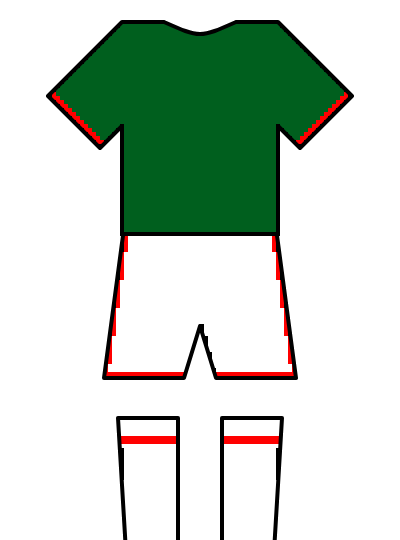
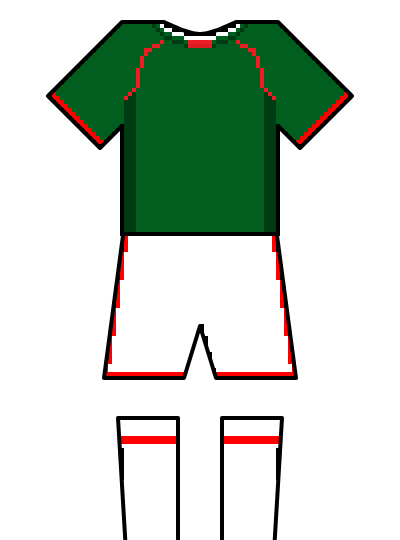
Redraw kits with twelve more pattern pictures
Claude-Session: https://claude.ai/code/session_019gbuJGYaZ4pQBD5fAWM6oT

Changed region(s): [[0.3, 0.0889, 0.39, 0.4444], [0.63, 0.0889, 0.69, 0.4444], [0.39, 0.0296, 0.63, 0.0889]]

diff --git a/public/data/kits.js b/public/data/kits.js
@@ -1119,7 +1119,7 @@ window.HALFTIME_KITS = [
     matches: ["1976-european-cup-final"],
     coloursSource: "Wikipedia, \"1976 European Cup final\" (revision 1341421817), CC BY-SA 4.0; colour read from the Commons picture \"Kit body asse_saint_etienne_76.png\" (CC BY-SA 3.0)",
     coloursUrl: "https://en.wikipedia.org/w/index.php?title=1976_European_Cup_final&oldid=1341421817",
-    illustration: { file: "saint-etienne-1976.png", credit: "Drawn after the kit shown in Wikipedia’s \"1976 European Cup final\" article. Pattern pictures from Wikimedia Commons: Kit left arm asse saint etienne 76.png (CC BY-SA 3.0, Guiggz); Kit body asse saint etienne 76.png (CC BY-SA 3.0, Guiggz); Kit shorts asse saint etienne 76.png (CC BY-SA 3.0, Guiggz). Outline: Wikimedia Commons kit template drawings." }
+    illustration: { file: "saint-etienne-1976.png", credit: "Drawn after the kit shown in Wikipedia’s \"1976 European Cup final\" article. Pattern pictures from Wikimedia Commons: Kit left arm asse saint etienne 76.png (CC BY-SA 3.0, Guiggz); Kit body asse saint etienne 76.png (CC BY-SA 3.0, Guiggz); Kit right arm asse saint etienne 76.png (CC BY-SA 3.0, Guiggz); Kit shorts asse saint etienne 76.png (CC BY-SA 3.0, Guiggz). Outline: Wikimedia Commons kit template drawings." }
   },
   {
     id: "west-germany-1976",
@@ -2019,7 +2019,7 @@ window.HALFTIME_KITS = [
     matches: ["1994-champions-league-final"],
     coloursSource: "Wikipedia, \"1994 UEFA Champions League final\" (revision 1375960154), CC BY-SA 4.0",
     coloursUrl: "https://en.wikipedia.org/w/index.php?title=1994_UEFA_Champions_League_final&oldid=1375960154",
-    illustration: { file: "barcelona-1994.png", credit: "Drawn after the kit shown in Wikipedia’s \"1994 UEFA Champions League final\" article. Pattern pictures from Wikimedia Commons: Kit body fcbarcelona9394home.png (CC BY-SA 3.0, Zotteteen1); Kit right arm fcbarcelona9394home.png (CC BY-SA 3.0, Zotteteen1). Outline: Wikimedia Commons kit template drawings." }
+    illustration: { file: "barcelona-1994.png", credit: "Drawn after the kit shown in Wikipedia’s \"1994 UEFA Champions League final\" article. Pattern pictures from Wikimedia Commons: Kit left arm fcbarcelona9394home.png (CC BY-SA 3.0, Zotteteen1); Kit body fcbarcelona9394home.png (CC BY-SA 3.0, Zotteteen1); Kit right arm fcbarcelona9394home.png (CC BY-SA 3.0, Zotteteen1); Kit shorts fcbarcelona9394home.png (Public domain, Chandler); Kit socks fcbarcelona9394home.png (CC BY-SA 3.0, Chandler). Outline: Wikimedia Commons kit template drawings." }
   },
   {
     id: "brazil-1994",
@@ -2124,7 +2124,7 @@ window.HALFTIME_KITS = [
     matches: ["1995-copa-america-final"],
     coloursSource: "Wikipedia, \"1995 Copa América final\" (revision 1349684504), CC BY-SA 4.0",
     coloursUrl: "https://en.wikipedia.org/w/index.php?title=1995_Copa_Am%C3%A9rica_final&oldid=1349684504",
-    illustration: { file: "uruguay-1995.png", credit: "Drawn after the kit shown in Wikipedia’s \"1995 Copa América final\" article. Pattern pictures from Wikimedia Commons: Kit left arm uruguay1995-96h.png (CC BY-SA 4.0, Manya_1996); Kit body uruguay1995-96h.png (CC BY-SA 4.0, Manya_1996); Kit right arm uruguay1995-96h.png (CC BY-SA 4.0, Manya_1996); Kit socks whitelinel.png (CC BY-SA 4.0, Eduzs). Outline: Wikimedia Commons kit template drawings." }
+    illustration: { file: "uruguay-1995.png", credit: "Drawn after the kit shown in Wikipedia’s \"1995 Copa América final\" article. Pattern pictures from Wikimedia Commons: Kit left arm uruguay1995-96h.png (CC BY-SA 4.0, Manya_1996); Kit body uruguay1995-96h.png (CC BY-SA 4.0, Manya_1996); Kit right arm uruguay1995-96h.png (CC BY-SA 4.0, Manya_1996); Kit shorts uru95h.png (CC BY-SA 4.0, Bruno-ban); Kit socks whitelinel.png (CC BY-SA 4.0, Eduzs). Outline: Wikimedia Commons kit template drawings." }
   },
   {
     id: "ajax-1996",
@@ -2379,7 +2379,7 @@ window.HALFTIME_KITS = [
     matches: ["2000-euro-final"],
     coloursSource: "Wikipedia, \"UEFA Euro 2000 final\" (revision 1377819903), CC BY-SA 4.0",
     coloursUrl: "https://en.wikipedia.org/w/index.php?title=UEFA_Euro_2000_final&oldid=1377819903",
-    illustration: { file: "france-2000.png", credit: "Drawn after the kit shown in Wikipedia’s \"UEFA Euro 2000 final\" article. Pattern pictures from Wikimedia Commons: Kit body france2000h.png (CC BY-SA 3.0, Zotteteen1); Kit right arm france2000h.png (CC BY-SA 3.0, Zotteteen1); Kit shorts france2000h.png (CC BY-SA 3.0, Zotteteen1). Outline: Wikimedia Commons kit template drawings." }
+    illustration: { file: "france-2000.png", credit: "Drawn after the kit shown in Wikipedia’s \"UEFA Euro 2000 final\" article. Pattern pictures from Wikimedia Commons: Kit left arm france2000h.png (CC BY-SA 3.0, Zotteteen1); Kit body france2000h.png (CC BY-SA 3.0, Zotteteen1); Kit right arm france2000h.png (CC BY-SA 3.0, Zotteteen1); Kit shorts france2000h.png (CC BY-SA 3.0, Zotteteen1); Kit socks france2000h.png (CC BY-SA 3.0, Zotteteen1). Outline: Wikimedia Commons kit template drawings." }
   },
   {
     id: "italy-2000",
@@ -2454,7 +2454,7 @@ window.HALFTIME_KITS = [
     matches: ["2001-copa-america-final"],
     coloursSource: "Wikipedia, \"2001 Copa América final\" (revision 1378647545), CC BY-SA 4.0",
     coloursUrl: "https://en.wikipedia.org/w/index.php?title=2001_Copa_Am%C3%A9rica_final&oldid=1378647545",
-    illustration: { file: "colombia-2001.png", credit: "Drawn after the kit shown in Wikipedia’s \"2001 Copa América final\" article. Pattern pictures from Wikimedia Commons: Kit body colombia 01 03 H.png (CC BY-SA 4.0, Juliancames); Kit shorts colombia 01 03 H.png (CC BY-SA 4.0, Juliancames). Outline: Wikimedia Commons kit template drawings." }
+    illustration: { file: "colombia-2001.png", credit: "Drawn after the kit shown in Wikipedia’s \"2001 Copa América final\" article. Pattern pictures from Wikimedia Commons: Kit left arm colombia 01 03 H.png (CC BY-SA 4.0, Juliancames); Kit body colombia 01 03 H.png (CC BY-SA 4.0, Juliancames); Kit right arm colombia 01 03 H.png (CC BY-SA 4.0, Juliancames); Kit shorts colombia 01 03 H.png (CC BY-SA 4.0, Juliancames); Kit socks colombia 01 03 H.png (CC BY-SA 4.0, Juliancames). Outline: Wikimedia Commons kit template drawings." }
   },
   {
     id: "mexico-2001",
@@ -2469,7 +2469,7 @@ window.HALFTIME_KITS = [
     matches: ["2001-copa-america-final"],
     coloursSource: "Wikipedia, \"2001 Copa América final\" (revision 1378647545), CC BY-SA 4.0",
     coloursUrl: "https://en.wikipedia.org/w/index.php?title=2001_Copa_Am%C3%A9rica_final&oldid=1378647545",
-    illustration: { file: "mexico-2001.png", credit: "Drawn after the kit shown in Wikipedia’s \"2001 Copa América final\" article. Pattern pictures from Wikimedia Commons: Kit left arm thinredborder.png (Public domain, VEO15); Kit right arm thinredborder.png (Public domain, VEO15); Kit shorts uru02a.png (CC BY-SA 4.0, Bruno-ban); Kit socks redstripe.png (Public domain, Luctor_IV). Outline: Wikimedia Commons kit template drawings." }
+    illustration: { file: "mexico-2001.png", credit: "Drawn after the kit shown in Wikipedia’s \"2001 Copa América final\" article. Pattern pictures from Wikimedia Commons: Kit left arm thinredborder.png (Public domain, VEO15); Kit body mex01h.png (CC BY-SA 4.0, KoreanDragon); Kit right arm thinredborder.png (Public domain, VEO15); Kit shorts uru02a.png (CC BY-SA 4.0, Bruno-ban); Kit socks redstripe.png (Public domain, Luctor_IV). Outline: Wikimedia Commons kit template drawings." }
   },
   {
     id: "valencia-2001",
@@ -2589,7 +2589,7 @@ window.HALFTIME_KITS = [
     matches: ["2004-copa-america-final"],
     coloursSource: "Wikipedia, \"2004 Copa América final\" (revision 1367555651), CC BY-SA 4.0",
     coloursUrl: "https://en.wikipedia.org/w/index.php?title=2004_Copa_Am%C3%A9rica_final&oldid=1367555651",
-    illustration: { file: "argentina-2004.png", credit: "Drawn after the kit shown in Wikipedia’s \"2004 Copa América final\" article. Pattern pictures from Wikimedia Commons: Kit left arm arg04h.png (CC BY-SA 3.0, Salygina); Kit body arg04h.png (CC BY-SA 3.0, Salygina); Kit shorts arg04h.png (CC BY-SA 3.0, Salygina); Kit socks arg04h.png (CC BY-SA 4.0, Zotteteen1). Outline: Wikimedia Commons kit template drawings." }
+    illustration: { file: "argentina-2004.png", credit: "Drawn after the kit shown in Wikipedia’s \"2004 Copa América final\" article. Pattern pictures from Wikimedia Commons: Kit left arm arg04h.png (CC BY-SA 3.0, Salygina); Kit body arg04h.png (CC BY-SA 3.0, Salygina); Kit right arm arg04h.png (CC BY-SA 3.0, Salygina); Kit shorts arg04h.png (CC BY-SA 3.0, Salygina); Kit socks arg04h.png (CC BY-SA 4.0, Zotteteen1). Outline: Wikimedia Commons kit template drawings." }
   },
   {
     id: "brazil-2004",
@@ -3009,7 +3009,7 @@ window.HALFTIME_KITS = [
     matches: ["2011-copa-america-final"],
     coloursSource: "Wikipedia, \"2011 Copa América final\" (revision 1376275436), CC BY-SA 4.0",
     coloursUrl: "https://en.wikipedia.org/w/index.php?title=2011_Copa_Am%C3%A9rica_final&oldid=1376275436",
-    illustration: { file: "paraguay-2011.png", credit: "Drawn after the kit shown in Wikipedia’s \"2011 Copa América final\" article. Pattern pictures from Wikimedia Commons: Kit left arm par1012h.png (CC0, Bruno-ban); Kit body par1012h.png (CC0, Bruno-ban); Kit socks 3 stripes white.png (Public domain, Dragases). Outline: Wikimedia Commons kit template drawings." }
+    illustration: { file: "paraguay-2011.png", credit: "Drawn after the kit shown in Wikipedia’s \"2011 Copa América final\" article. Pattern pictures from Wikimedia Commons: Kit left arm par1012h.png (CC0, Bruno-ban); Kit body par1012h.png (CC0, Bruno-ban); Kit right arm par1012h.png (CC0, Bruno-ban); Kit shorts par1012h.png (CC0, Bruno-ban); Kit socks 3 stripes white.png (Public domain, Dragases). Outline: Wikimedia Commons kit template drawings." }
   },
   {
     id: "uruguay-2011",
@@ -3684,7 +3684,7 @@ window.HALFTIME_KITS = [
     matches: ["2023-champions-league-final"],
     coloursSource: "Wikipedia, \"2023 UEFA Champions League final\" (revision 1377261615), CC BY-SA 4.0",
     coloursUrl: "https://en.wikipedia.org/w/index.php?title=2023_UEFA_Champions_League_final&oldid=1377261615",
-    illustration: { file: "manchester-city-2023.png", credit: "Drawn after the kit shown in Wikipedia’s \"2023 UEFA Champions League final\" article. Pattern pictures from Wikimedia Commons: Kit left arm mancity2223H.png (CC BY-SA 4.0, JonasBR); Kit body mancity2223H.png (CC BY-SA 4.0, JonasBR); Kit shorts mancity2223h.png (CC BY-SA 4.0, JonasBR); Kit socks mancity2223hl.png (CC BY-SA 4.0, Eduzs). Outline: Wikimedia Commons kit template drawings." }
+    illustration: { file: "manchester-city-2023.png", credit: "Drawn after the kit shown in Wikipedia’s \"2023 UEFA Champions League final\" article. Pattern pictures from Wikimedia Commons: Kit left arm mancity2223H.png (CC BY-SA 4.0, JonasBR); Kit body mancity2223H.png (CC BY-SA 4.0, JonasBR); Kit right arm mancity2223H.png (CC BY-SA 4.0, JonasBR); Kit shorts mancity2223h.png (CC BY-SA 4.0, JonasBR); Kit socks mancity2223hl.png (CC BY-SA 4.0, Eduzs). Outline: Wikimedia Commons kit template drawings." }
   },
   {
     id: "argentina-2024",
